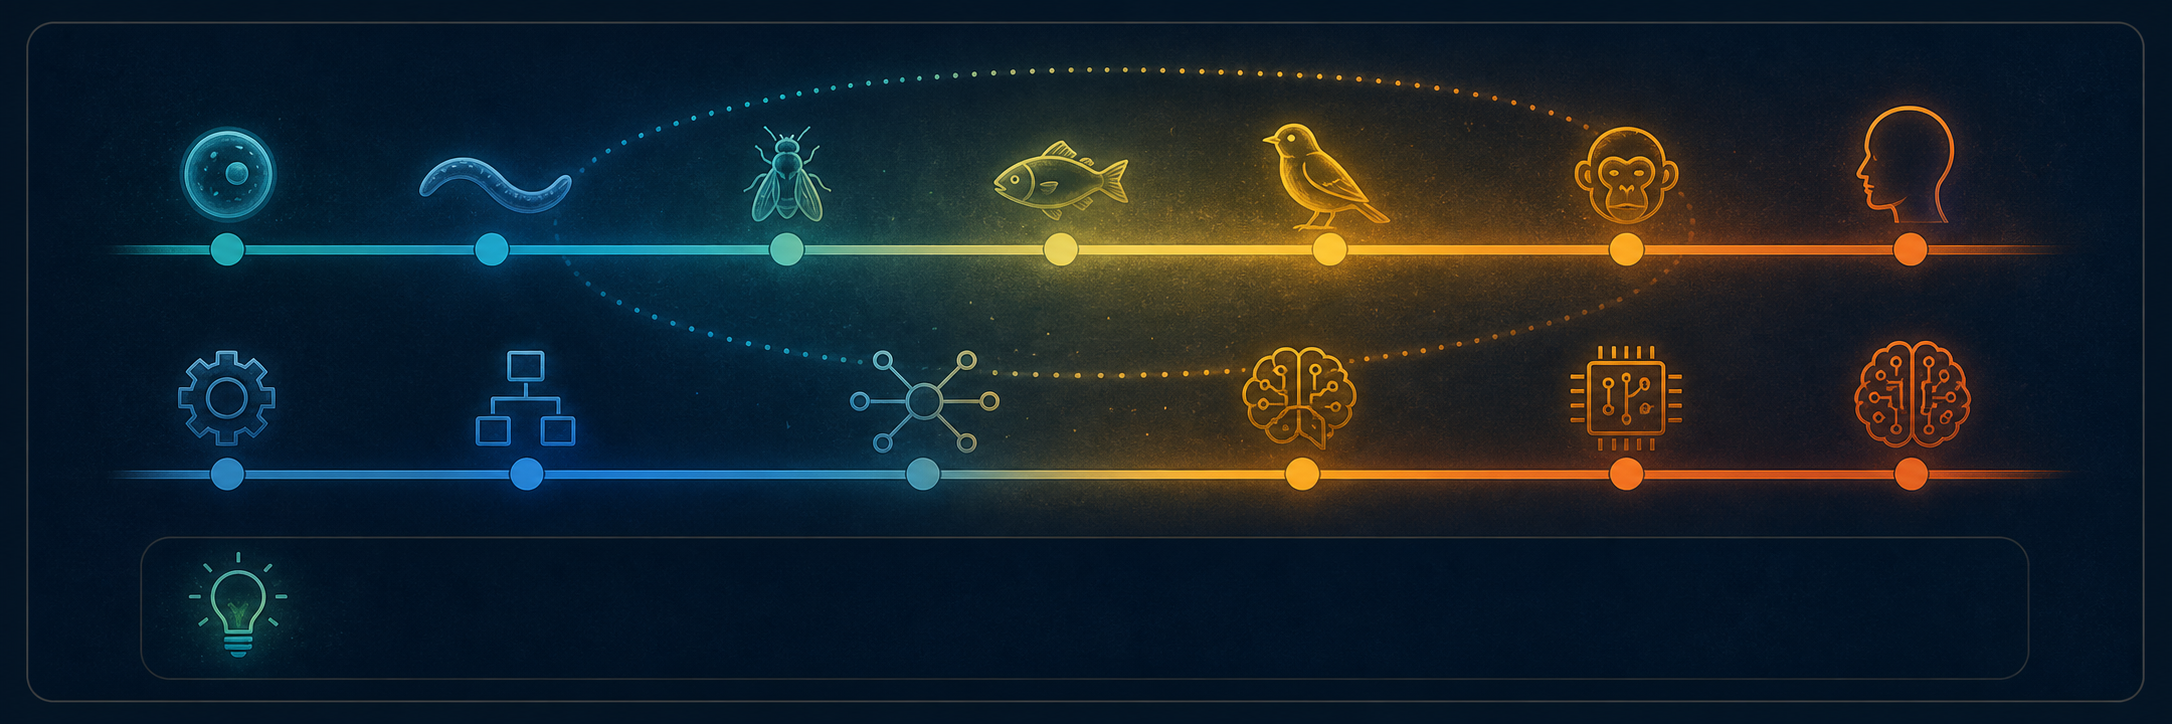
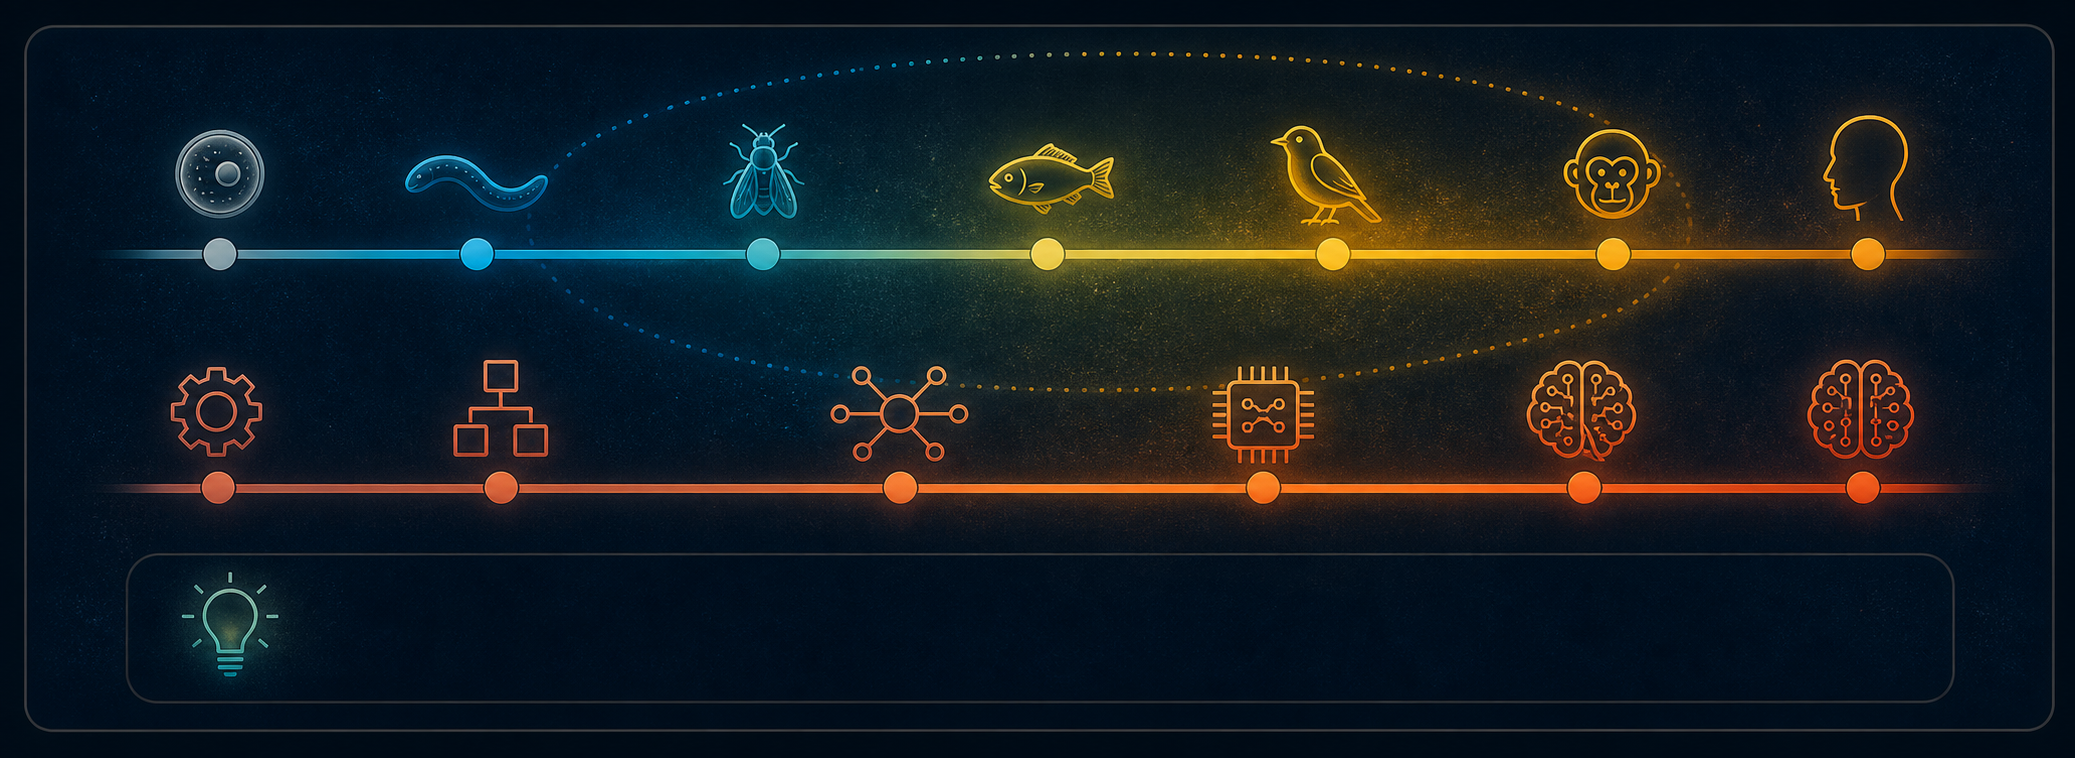
Tune fuzzy zone visual alignment

diff --git a/src/pages/AIConsciousness.jsx b/src/pages/AIConsciousness.jsx
@@ -1258,7 +1258,7 @@ function FuzzyZoneArtFigure() {
         .fuzzy-zone-art-canvas {
           position: relative;
           width: 100%;
-          aspect-ratio: 3 / 1;
+          aspect-ratio: 2075 / 758;
           border-radius: 12px;
           overflow: hidden;
           background: ${C.midnight};
@@ -1297,7 +1297,7 @@ function FuzzyZoneArtFigure() {
         .fuzzy-zone-art-zone {
           position: absolute;
           left: 50%;
-          top: 9.7%;
+          top: 9.8%;
           transform: translateX(-50%);
           z-index: 2;
           color: ${C.goldLight};
@@ -1333,7 +1333,7 @@ function FuzzyZoneArtFigure() {
           pointer-events: none;
         }
         .fuzzy-zone-art-row-label.bio {
-          top: 36.2%;
+          top: 35.2%;
           color: #23c6a8;
         }
         .fuzzy-zone-art-row-label.ai {
@@ -1351,14 +1351,14 @@ function FuzzyZoneArtFigure() {
           white-space: normal;
         }
         .fuzzy-zone-art-label.bio {
-          top: 18.5%;
+          top: 13.8%;
         }
         .fuzzy-zone-art-label.ai {
-          top: 47.3%;
+          top: 44.6%;
         }
         .fuzzy-zone-art-boundary {
           left: 50%;
-          top: 71.6%;
+          top: 67.8%;
           transform: translateX(-50%);
           width: 210px;
           text-align: center;
